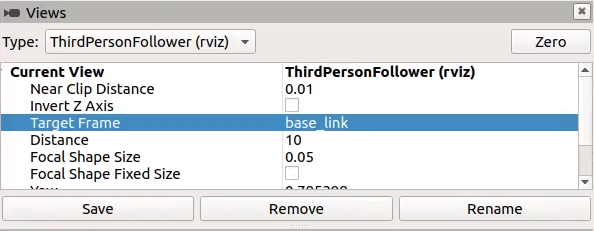
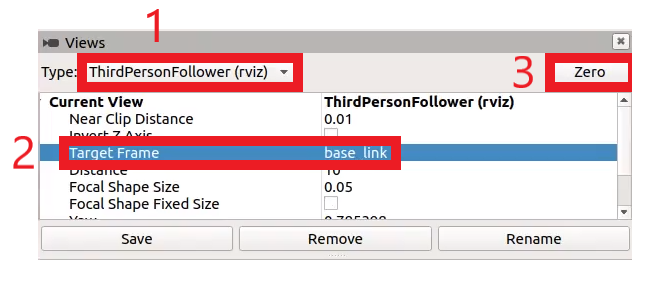
Added details to exercise2
Also modified the view_properties image file and made minor changes to exercise0.md and exercise5.md

diff --git a/exercises/exercise2.md b/exercises/exercise2.md
@@ -1,6 +1,53 @@
 # Exercise 2: RViz basics and replaying a rosbag
 
-TODO
+## Launch RViz, start and pause rosbag playback
+1. Open two terminal windows and run the following commands in *both* terminals
+```
+cd /home/[username]/Autoware.IV
+source ./install/setup.bash
+``` 
+2. In the first terminal, launch RViz
+```
+roslaunch autoware_launch autoware.launch rosbag:=true map_path:=[rosbag_sample_map_path]
+```
+3. In the second terminal, play the rosbag file
+```
+rosbag play --clock [sample.bag path]/sample.bag -r 0.2
+```
+4. In the still active second terminal, hit the spacebar to pause rosbag playback
+
+---
+
+## Adjust the RViz view (TopDownOrth and ThirdPersonFollower)
+5. Adjust RViz view (TopDownOrth): 
+- Clicking and holding the left mouse button then moving the mouse rotates the view in the same plane
+- Clicking and holding the right mouse button then moving the mouse zooms in/out
+- Holding the shift key and moving the mouse pans the view
+
+6. Adjust RViz viewpoint to ThirdPersonFollower to change from a top-down 2D view to a 3D view
+- In the Views panel on the left side of the window, click the Type dropdown box and select "ThirdPersonFollower"
+- Double-click the Target Frame value and select "base_link"
+- Click the “Zero” button
+
+![](images/exercise5/views_properties.png)
+
+7. Adjust RViz view (ThirdPersonFollower):
+- In ThirdPersonFollower view, clicking and holding the left mouse button then moving the mouse rotates the view in all directions
+- Other functions (holding the right mouse button, holding shift) behave the same as for TopDownOrth
+
+8. Click the [Zero] button in the Views panel to move the displayed view to the origin of the base_link (the center of the vehicle's rear axle)
+
+---
+
+## Resume rosbag playback and toggle display options
+9. Click in the second terminal, then hit the spacebar to resume rosbag playback
+
+10. Toggling display options
+In the `Displays` panel, click the triangle icons next to `Sensing` and then the one next `LiDAR`
+Toggle “ConcatenatePointCloud” off and on by clicking the checkbox.
+Pointcloud display will be toggled off and then on in the display
+Toggle “NoGroundPointCloud” off and on by clicking the checkbox.
+
 
 | Next |
 | ---- |

diff --git a/exercises/exercise5.md b/exercises/exercise5.md
@@ -5,11 +5,15 @@ For this exercise, we will be using the Planning Simulator which only requires a
 ## Run RViz and set initial and goal poses
 1. Open a terminal window, navigate to the Autoware.IV install directory and run the following command:
    
-`source ./install/setup.bash`
+```
+source ./install/setup.bash
+```
 
 2. Run RViz with the following command:
 
-`roslaunch autoware_launch planning_simulator.launch map_path:=/home/[username]/Downloads/planning_simulator_sample_map`
+```
+roslaunch autoware_launch planning_simulator.launch map_path:=/home/[username]/Downloads/planning_simulator_sample_map
+```
 - By default, RViz will open with an ImageView panel in the bottom-left corner, but this can be closed since it will not be used during this exercise.
 ![](images/exercise5/rviz.png)
 
@@ -19,16 +23,21 @@ For this exercise, we will be using the Planning Simulator which only requires a
 ![](images/exercise5/toolbar_2D_pose.png)
 
 - Click and hold the left-mouse button, and then drag to set the direction of the pose
+
 ![](images/exercise5/initial_pose.png)
 
 4. Set the goal pose of the ego-vehicle
 - Click the “2D Nav Goal” button in the toolbar, or hit the “G” key
 ![](images/exercise5/toolbar_2D_navgoal.png)
 - Click and hold the left-mouse button, and then drag to set the direction of the pose
+
 ![](images/exercise5/goal_pose.png)
 
 5. Confirm initial pose, goal pose and route are displayed
+
 ![](images/exercise5/poses_route.png)
+
+---
 
 ## Adding and removing dummy obstacles, both moving and stationary
 6. Add a dummy car
@@ -55,8 +64,10 @@ For this exercise, we will be using the Planning Simulator which only requires a
 ![](images/exercise5/toolbar_delete_all_objects.png)
 - Click the display
 
+---
+
 ## "Number One, Engage!"
-10. Adjust RViz viewpoint to ThirdPersonFollower to see objects in 3D
+10.  Adjust RViz viewpoint to ThirdPersonFollower to change from a top-down 2D view to a 3D view
 - In the Views panel on the left side of the window, click the Type dropdown box and select "ThirdPersonFollower"
 - Double-click the Target Frame value and select "base_link"
 - Click the “Zero” button

diff --git a/exercises/exercise0.md b/exercises/exercise0.md
@@ -1,6 +1,10 @@
 # Exercise 0: Introduction (or how we're going to be doing things)
 
-Throughout these exercises, two terminal windows will be required to run Autoware (the number of terminals is dependent on the complexity of the overall system). You're welcome to do this in whichever way you prefer, but we're going to use the [Terminator application](https://gnometerminator.blogspot.com/p/introduction.html) and all exercises going forward will show Terminator screenshots.
+1. For the most, two terminal windows will be required for these exercises (the number of terminals scales with the complexity of the overall system and can be as many as 10-12 in an actual autonomous vehicle!). 
+
+2. Whilst those following these exercises can use their preferred terminal, the [Terminator application](https://gnometerminator.blogspot.com/p/introduction.html) will be used in any videos accompanying the workshop, and any terminal screenshots in the exercises will be taken from Terminator.
+
+3. 
 
 | Next |
 | ---- |
